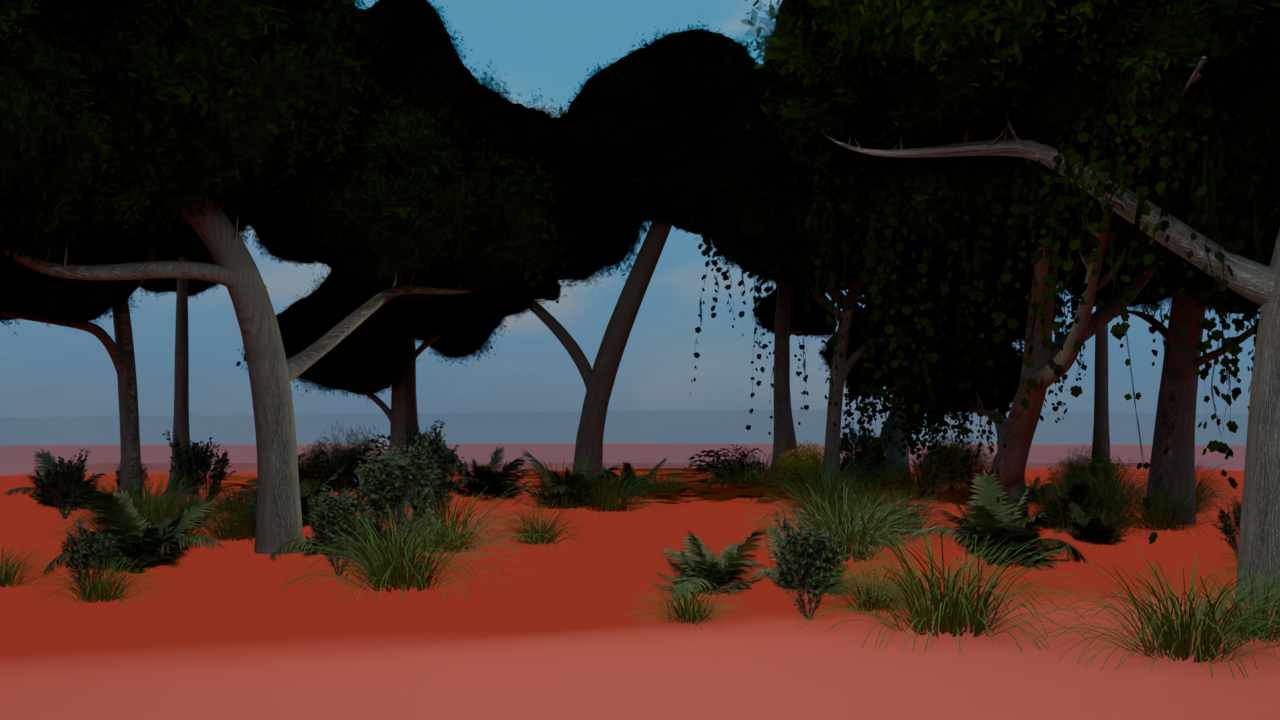
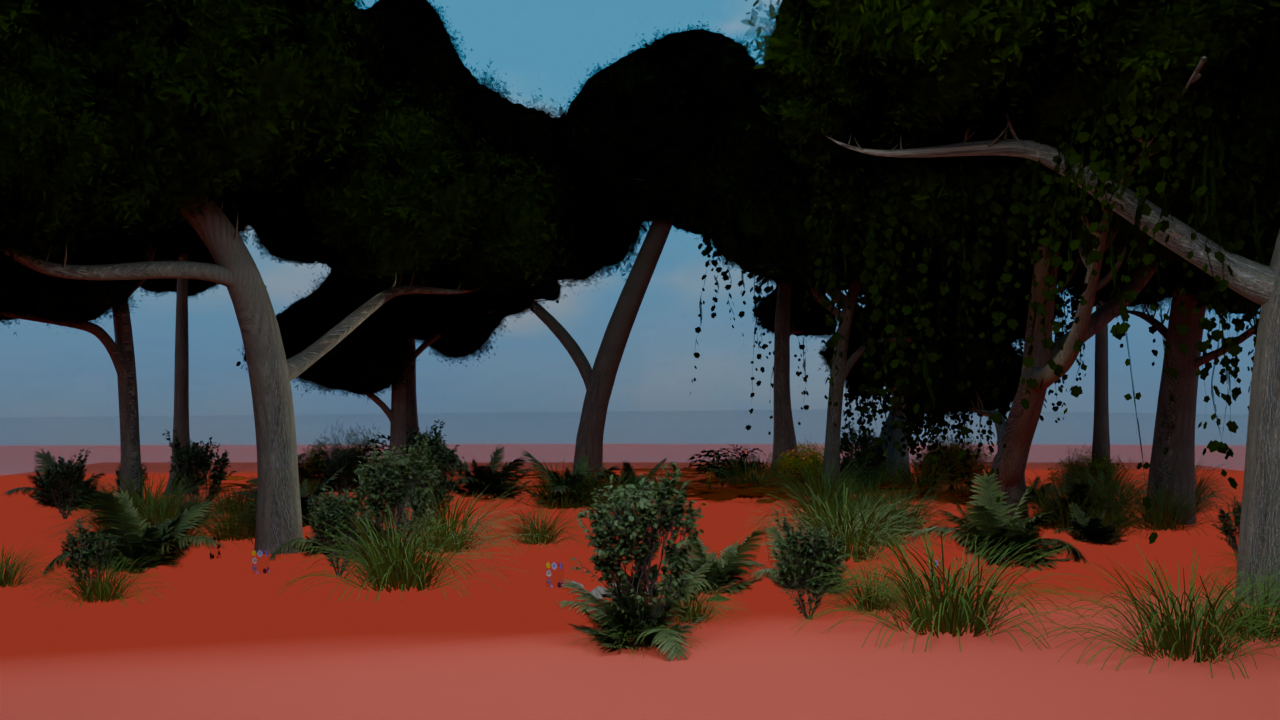
docs(nightshift): record forest handoff after camera-floor FAIL
Overlay strategy did not fix the locked-camera salmon floor. Isolated
lookdev stills remain PASS. Lighting stays gated. paidCreateCount=0.

diff --git a/reports/nightshift/TIVVLEJOY_FOREST_NIGHTSHIFT_HANDOFF_V1.md b/reports/nightshift/TIVVLEJOY_FOREST_NIGHTSHIFT_HANDOFF_V1.md
@@ -1,0 +1,156 @@
+# TivvleJoy forest night-shift handoff V1
+
+## SESSION
+
+startingBranch=cursor/tivvlejoy-botaniq-forest-production-recovery-eed2  
+startingHead=70a13a1d33b445ad104b37c14901d80d333dc489  
+endingBranch=cursor/tivvlejoy-botaniq-forest-production-recovery-eed2  
+endingHead=PENDING_STAMP  
+executionStatus=PARTIAL  
+draftPR=175  
+paidCreateCount=0  
+paidSpendUsd=0
+
+Continued from Botaniq recovery after isolated lookdev already passed and camera-distance ground had failed.
+
+## COMPLETED WORK
+
+- Persistent Cursor rules under `.cursor/rules/` (honesty, paid lock, provenance, visual gates).
+- Baseline report: `reports/nightshift/FOREST_NIGHTSHIFT_BASELINE_V1.md`.
+- Actionable pipeline notes: `reports/nightshift/FOREST_PRODUCTION_PIPELINE_V1.md`.
+- Owned-source provenance: `artifacts/tivvlejoy-stagegraph-v1/FOREST_OWNED_SOURCE_PROVENANCE_V1.json`.
+- Hero/mid/background tier helpers + tests.
+- Technical visual QA (camera lock, colorspace, emission) that cannot certify artistic PASS.
+- Fourth camera-ground strategy: hide vendor plane, overlay `TJ_ProdForestFloor`. Still FAIL.
+
+Prior isolated lookdev (already on this branch) remains the best visual evidence.
+
+## VISUAL RESULTS
+
+path=artifacts/tivvlejoy-stagegraph-v1/LOOKDEV_BARK_PRODUCTION_V2.png  
+resolution=960x720  
[1 lines of base64/hex data omitted]
+classification=PASS  
+reason=Cylindrical Tilia wrap, 48-vert cylinder, no EcoKit leak.
+
+path=artifacts/tivvlejoy-stagegraph-v1/LOOKDEV_GROUND_PRODUCTION_V2.png  
+resolution=960x720  
[1 lines of base64/hex data omitted]
+classification=PASS  
+reason=Soil + autumn litter + needles + moss under neutral studio light.
+
+path=artifacts/tivvlejoy-stagegraph-v1/LOOKDEV_BUSH_PRODUCTION_V2.png  
+resolution=960x720  
[1 lines of base64/hex data omitted]
+classification=PASS  
+reason=Corylus stems and serrated leaves, no rectangular ghosts.
+
+path=artifacts/tivvlejoy-stagegraph-v1/LOOKDEV_LEAF_PRODUCTION_V2.png  
+resolution=960x720  
[1 lines of base64/hex data omitted]
+classification=PASS  
+reason=Keyed Corylus cutout, not a dark rectangle.
+
+path=artifacts/tivvlejoy-stagegraph-v1/LOOKDEV_GRASS_FERN_PRODUCTION_V2.png  
+resolution=960x720  
[1 lines of base64/hex data omitted]
+classification=PASS  
+reason=Carex volume plus Dryopteris fronds.
+
+path=artifacts/tivvlejoy-stagegraph-v1/FOREST_MATERIAL_RECOVERY_CAMERA_PROOF_V1.png  
+resolution=1280x720  
[1 lines of base64/hex data omitted]
+classification=FAIL  
+reason=Locked camera still shows a solid salmon/terracotta floor after remap, world-space mapping, user_remap, and a new overlay mesh. Botaniq understory is visible; the floor is not the isolated soil-litter shader.
+
+## BARK
+
+source=Botaniq bq_Bark_Tilia-europaea  
+architecture=cylindrical unwrap, U tiles at 0.85 m, V at 3.4 m, local Principled, normal 0.62  
+status=PASS isolated; production Tree_* meshes unwrapped; camera-distance bark is secondary to the floor failure
+
+## GROUND
+
+sources=Soil_Loose + Fallen_Leaves_Autumn + Fallen_Needles + Moss  
+architecture=layered Principled, world Position; TJ_ProdForestFloor overlay; vendor plane hidden  
+status=PASS isolated, FAIL at locked camera
+
+## FOLIAGE
+
+sources=Corylus leaf + Corylus shrub  
+alphaArchitecture=studio-black keyed to RGBA, CLIP  
+translucencyArchitecture=Principled plus light translucent mix  
+status=PASS isolated
+
+## GRASS / UNDERSTORY
+
+sources=Carex A + Dryopteris A  
+status=PASS isolated; EcoKit billboards hidden for y<18
+
+## VEGETATION SUBSTITUTION
+
+foreground=Botaniq  
+midground=Botaniq  
+background=EcoKit preserved at y>=18
+
+## CAMERA
+
+changed=false
+
+## WATER
+
+changed=false
+
+## LIGHTING
+
+changed=false  
+summary=Cinematic lighting rebuild was not started. Isolated materials pass; camera-distance floor still fails. Lighting remains gated.
+
+## PIPELINE HARDENING
+
+rulesCreatedOrUpdated=.cursor/rules/{tivvlejoy-core,blender-production,visual-quality-gates,proof-receipts,paid-execution-safety,asset-provenance}.mdc  
+testsAdded=forest_visual_qa_v1, forest_vegetation_tiers_v1, botaniq recovery assertions  
+assetIntakeChanges=none this session (local Botaniq/EcoKit caches reused)  
+automationChanges=--skip-lookdev-stills camera rerun; production floor overlay helper
+
+## COST
+
+paidCreateCount=0  
+paidSpendUsd=0
+
+## GIT
+
+commits=rules/baseline, production floor overlay, provenance/tiers/QA, plus this handoff  
+uncommittedChanges=see stamp commit  
+revertedExperiments=none (overlay kept as architecture; it did not worsen isolated proofs)
+
+## FAILURES REMAINING
+
+- Locked-camera forest floor is still a solid salmon/terracotta plane.
+- Tree canopies remain dark EcoKit clusters (not in this night-shift isolated gate).
+- Botaniq library materials.blend is not extracted; localized Principled is the workaround.
+- Grey HDRI lower hemisphere / horizon still present; background work not started because floor still fails.
+
+## BLOCKERS
+
+None that stop unpaid work. Camera-floor bind needs a different scene-graph diagnosis (which mesh is actually shading those pixels) before lighting.
+
+## BEST CURRENT PROOF
+
+path=artifacts/tivvlejoy-stagegraph-v1/LOOKDEV_GROUND_PRODUCTION_V2.png  
[1 lines of base64/hex data omitted]
+whyBest=Clearest evidence that owned Botaniq soil/litter/moss can read as a forest floor when isolation is honest. Camera-distance still does not.
+
+## CURRENT PRODUCTION READINESS
+
+forestMaterialsProductionReady=false  
+forestVegetationProductionReady=false  
+forestLightingProductionReady=false  
+forestSceneProductionReady=false  
+finalVideoRenderReady=false
+
+Isolated materials are production-capable. The assembled locked-camera scene is not.
+
+## NEXT ACTION
+
+Identify the exact mesh/material that shades the locked-camera floor (vendor plane still visible, atmosphere bottom, or world) and replace that surface only. Do not rebuild cinematic lighting until that frame shows soil+litter+moss.
